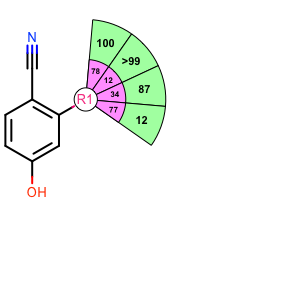
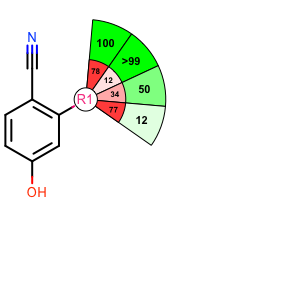
Segments are now colored by value

Changed region(s): [[0.27, 0.06, 0.57, 0.48]]

diff --git a/rgrouppie.py b/rgrouppie.py
@@ -31,7 +31,7 @@ for atom in mol.GetAtoms():
 image = oedepict.OEImage(300, 300)
 
 # Draw pie segments
-vals = [[100, ">99", 87, 12],
+vals = [[100, ">99", 50, 12],
         [78, 12, 34, 77]]
 n_ring = len(vals)
 
@@ -43,13 +43,24 @@ pen_green = oedepict.OEPen(oechem.OELightGreen, oechem.OEBlack, oedepict.OEFill_
 pen_red = oedepict.OEPen(oechem.OELightPurple, oechem.OEBlack, oedepict.OEFill_On, 1.0)
 pens = [pen_green, pen_red]
 
+gradients = [oechem.OELinearColorGradient(oechem.OEColorStop(0, oechem.OEWhite), oechem.OEColorStop(100, oechem.OEGreen)),
+             oechem.OELinearColorGradient(oechem.OEColorStop(0, oechem.OEWhite), oechem.OEColorStop(100, oechem.OERed))]
+
 # Draw rings from outside inwards
 for ring_num in range(n_ring):
     starting_angle = START_ANGLE
     ring = vals[ring_num]
     for value in ring:
         radius = (n_ring - ring_num) * RADIUS_BASE
-        layer.DrawPie(r_coords, starting_angle, starting_angle + WEDGE_WIDTH, radius, pens[ring_num])
+
+        if isinstance(value, str) and ">" in value:
+            value_for_color = 100
+        else: value_for_color = value
+        gradient = gradients[ring_num]
+        color = gradient.GetColorAt(value_for_color)
+        pen = oedepict.OEPen(color, oechem.OEBlack, oedepict.OEFill_On, 1.0)
+
+        layer.DrawPie(r_coords, starting_angle, starting_angle + WEDGE_WIDTH, radius, pen)
 
         # Write value in segment - based on
         # https://docs.eyesopen.com/toolkits/cookbook/python/_downloads/properties2img.py
@@ -77,6 +88,7 @@ oegrapheme.OEAddGlyph(mdisp, glyph, oechem.OEHasMapIdx(1))
 
 # Render molecule
 oedepict.OERenderMolecule(image, mdisp)
+
 
 # Write out images
 oedepict.OEWriteImage("MolWithWedgeChart.svg", image)

diff --git a/README.md b/README.md
@@ -1,16 +1,11 @@
 # rgroup-pie
 PoC code to generate a structure depictions with partial pie charts centered on R group atoms
 
-The code is inspired by Fig 3 in [Doyon et al](https://pubs.acs.org/doi/10.1021/jacs.9b10474)
-which was developed by [Attabey Rodríguez Benítez](https://twitter.com/ScienceBey). The original
-visualization was designed to summarize substrate scope but can be generalized to plot any number(s)
-associated with R-groups (e.g., bioactivity)
+The code is inspired by Fig 3 in [Doyon et al](https://pubs.acs.org/doi/10.1021/jacs.9b10474) vwhich was developed by [Attabey Rodríguez Benítez](https://twitter.com/ScienceBey). The original visualization was designed to summarize substrate scope but can be generalized to plot any number(s) associated with R-groups (e.g., bioactivity)
 
 The code uses the [OEChem](https://www.eyesopen.com/oechem-tk) so you'll need a license to run it.
 
-There is an example MOL file with a single R group - I've hardcoded the program to look for `R1`. It 
-doesn't color the segments by gradient or label the segments with names or structures but that is 
-relatively straightforward.
+There is an example MOL file with a single R group - I've hardcoded the program to look for `R1`. It  label the segments with names or structures but that is relatively straightforward.
 
 The output of the script with the MOL file in this repository is
 
